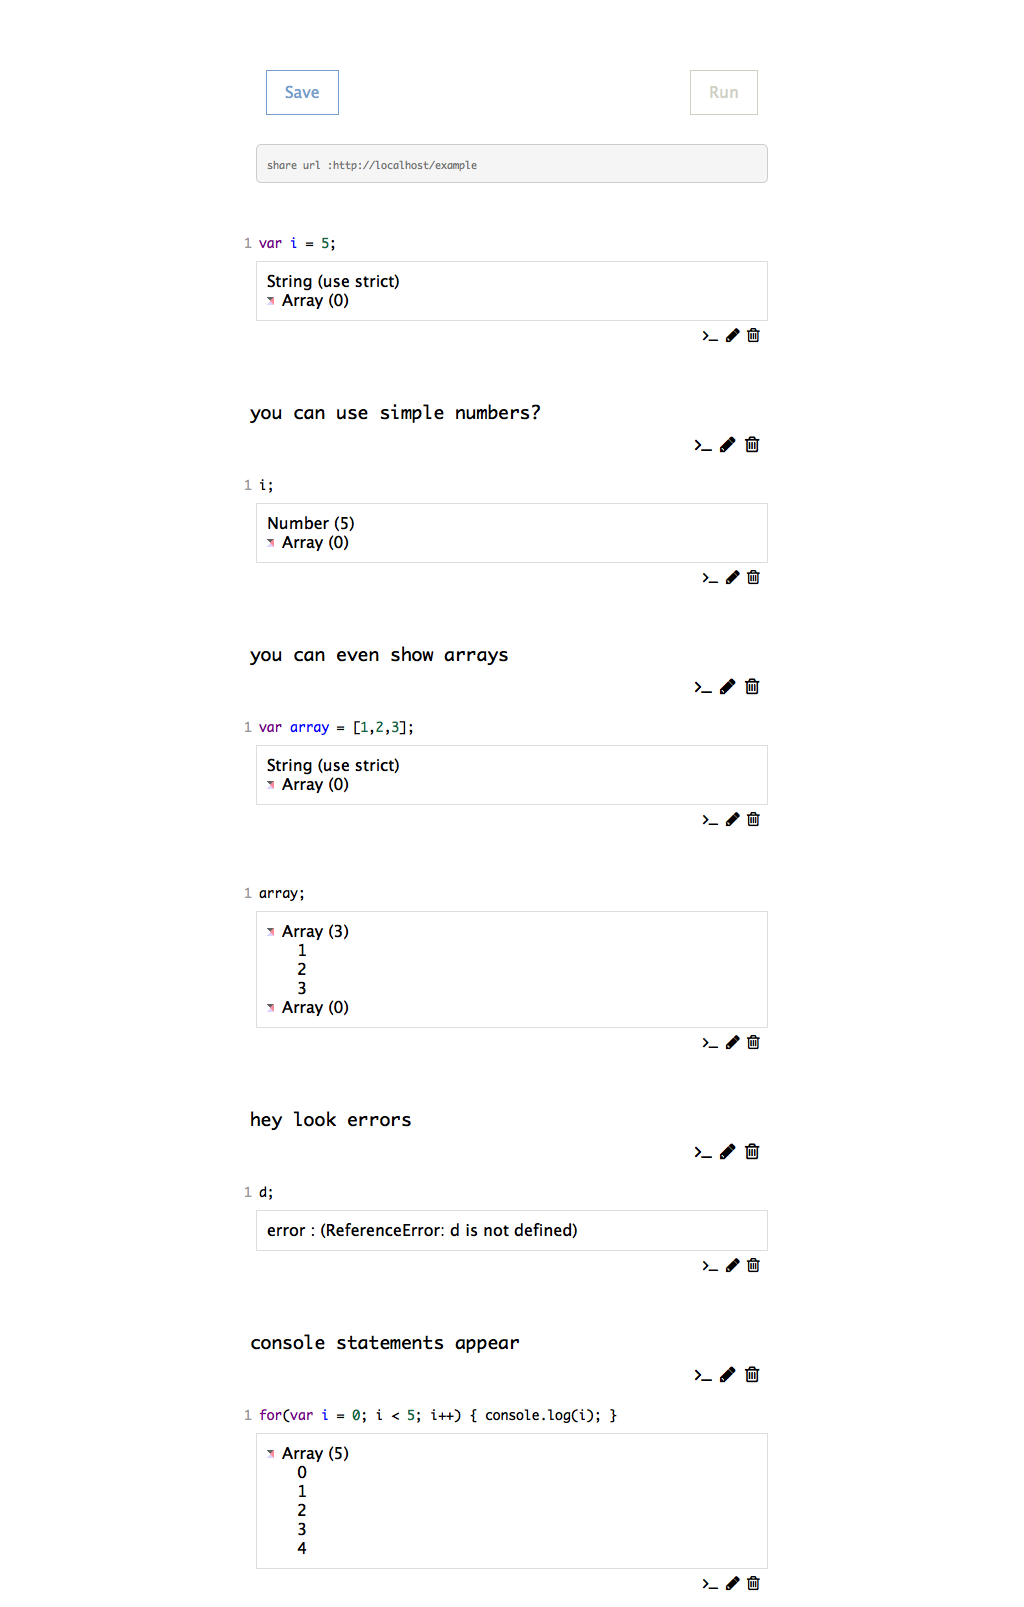
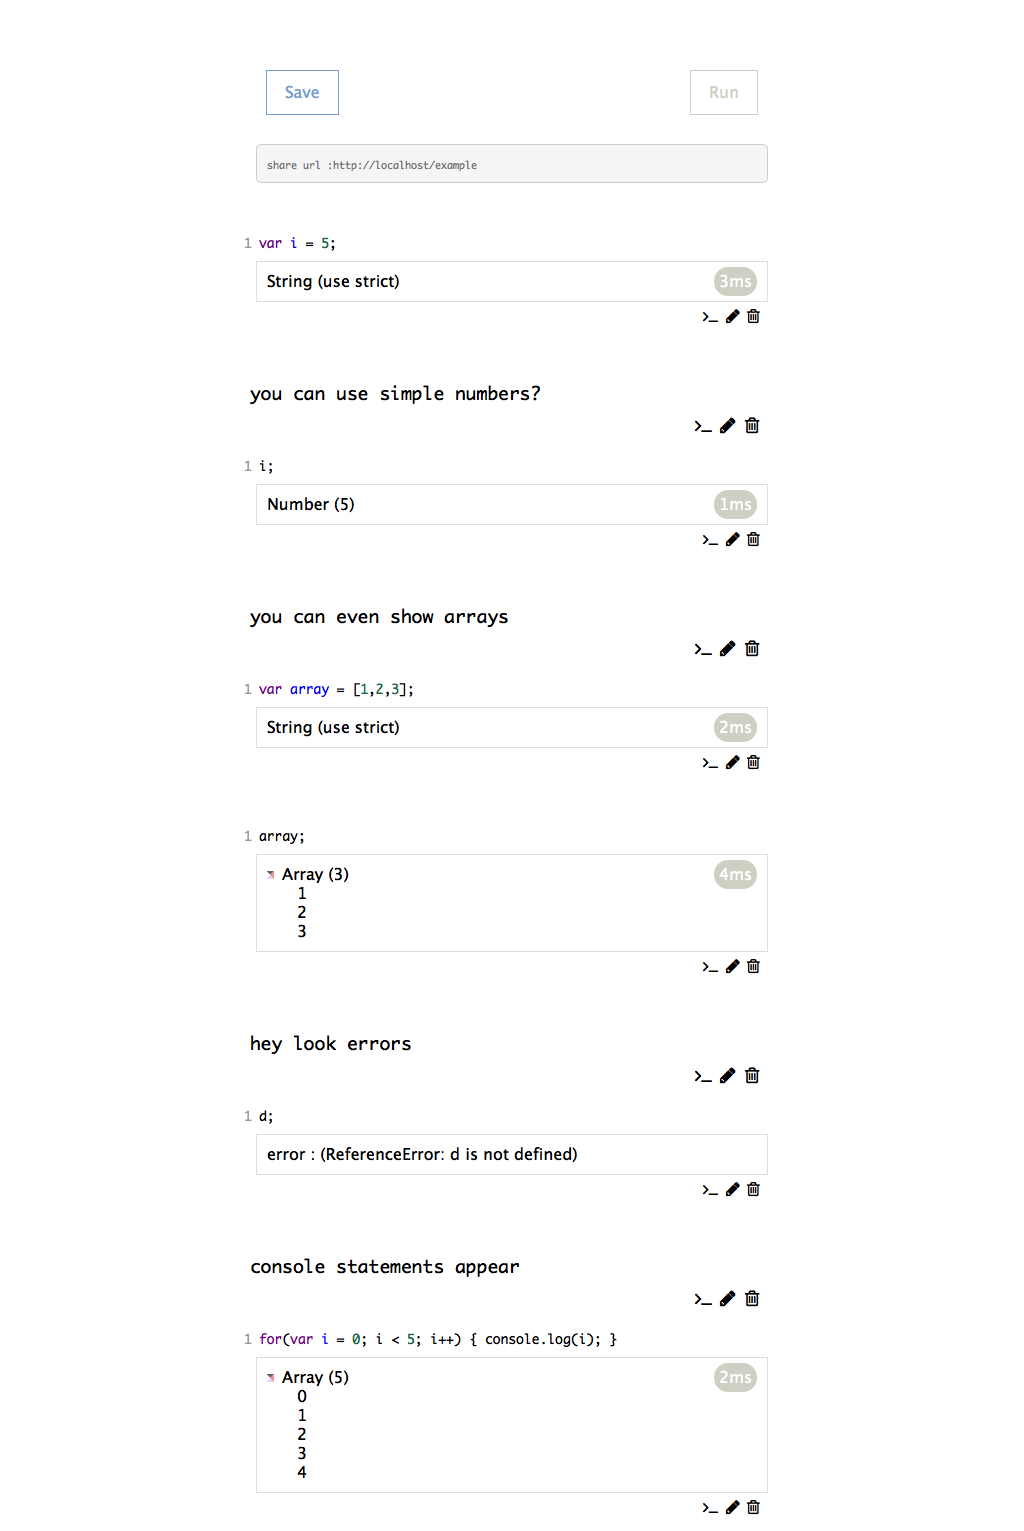
adds time block to code output updates screenshots

diff --git a/views/assets/app.js b/views/assets/app.js
@@ -1,4 +1,4 @@
-/*global CodeMirror, document, XMLHttpRequest */
+/*global CodeMirror */
 var session = location.pathname !== '/' ? location.pathname.replace('/', '') : Date.now();
 
 var editors = [];
@@ -8,7 +8,12 @@ var parse = function(req) {
     var response = req.result;
     var error = req.error;
     var logs = req.trace;
+    var time = req.time;
     var html = '';
+
+    if(time) {
+        html += '<span style="float: right;margin-top: -5px;" class="badge badge-default">' + time + '</span>';
+    }
     if(error) {
         html += '<label>';
         html += '<span> error : ('+error+')</span>';
@@ -42,11 +47,11 @@ var parse = function(req) {
         }
     }
     if(logs && logs.length > 0) {
-        var t = Date.now();
+        var l = Date.now();
         html += '<div class="treeview"><ul>';
         html += '<li>';
-        html += '<input type="checkbox" id="'+t+'">';
-        html += '<label for="'+t+'">';
+        html += '<input type="checkbox" id="'+l+'">';
+        html += '<label for="'+l+'">';
         html += '<span>Array ('+logs.length+')</span>';
         html += '</label>';
         html += '<ul>';
